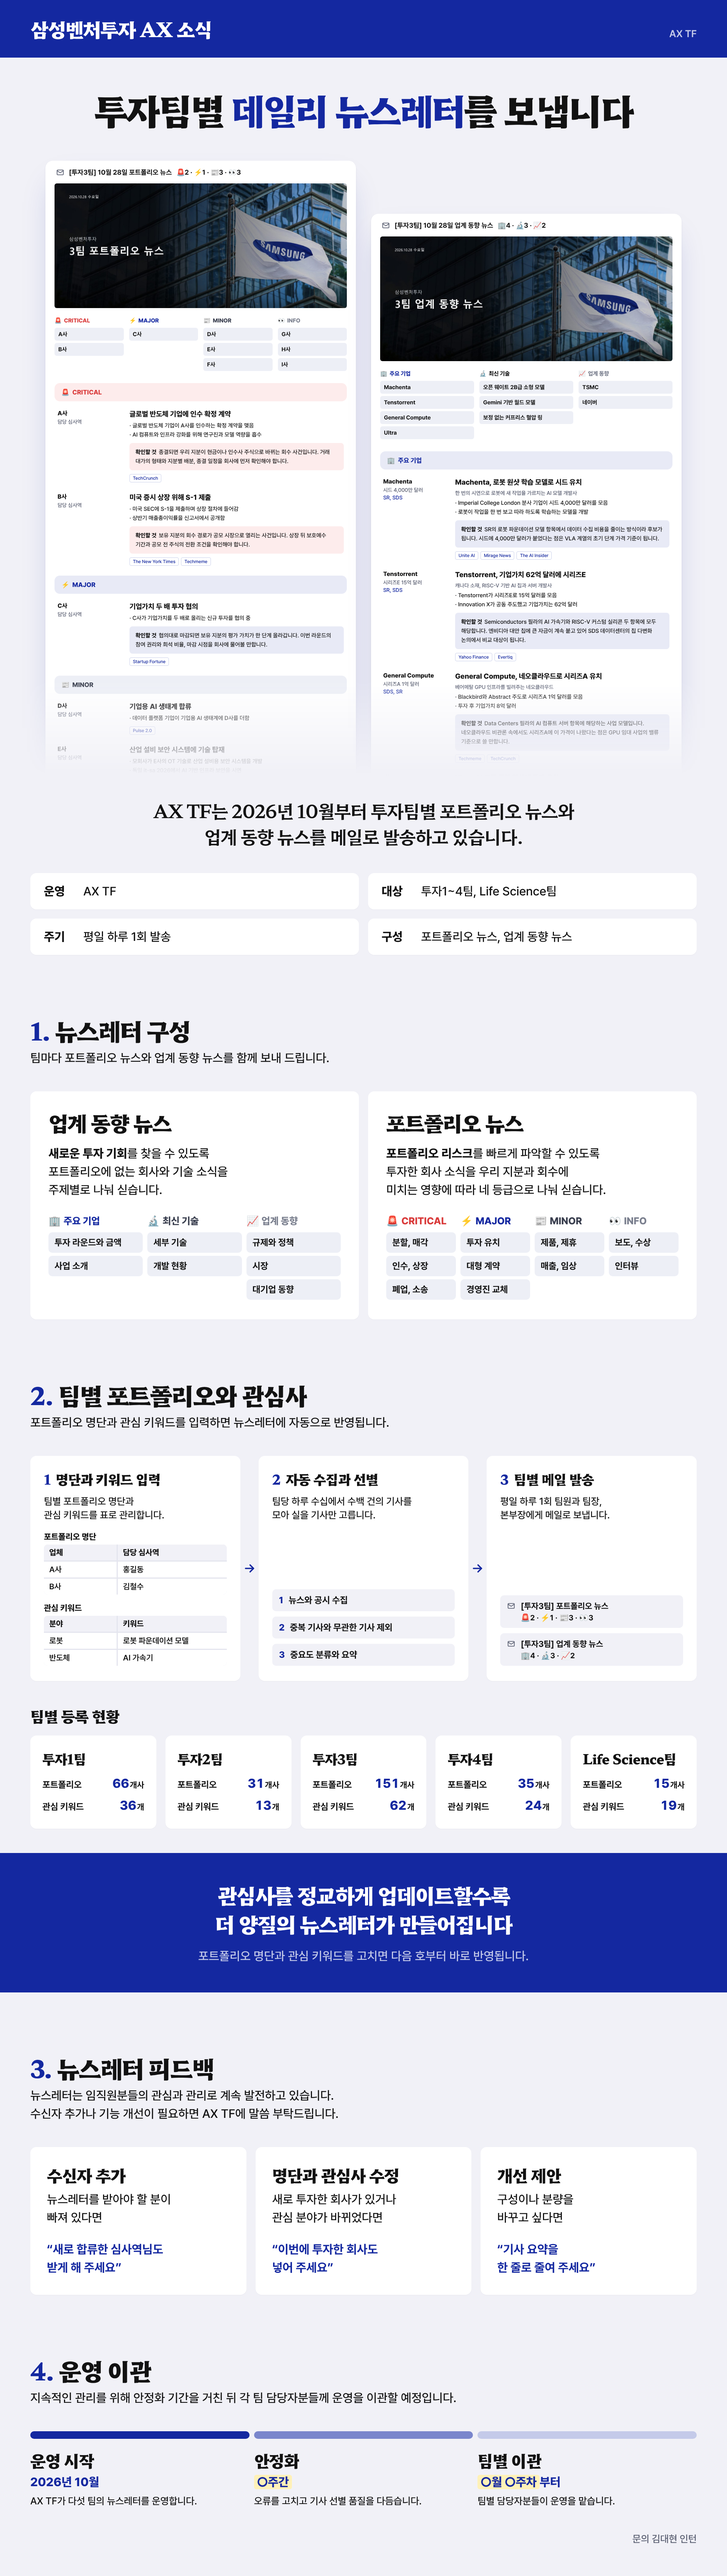
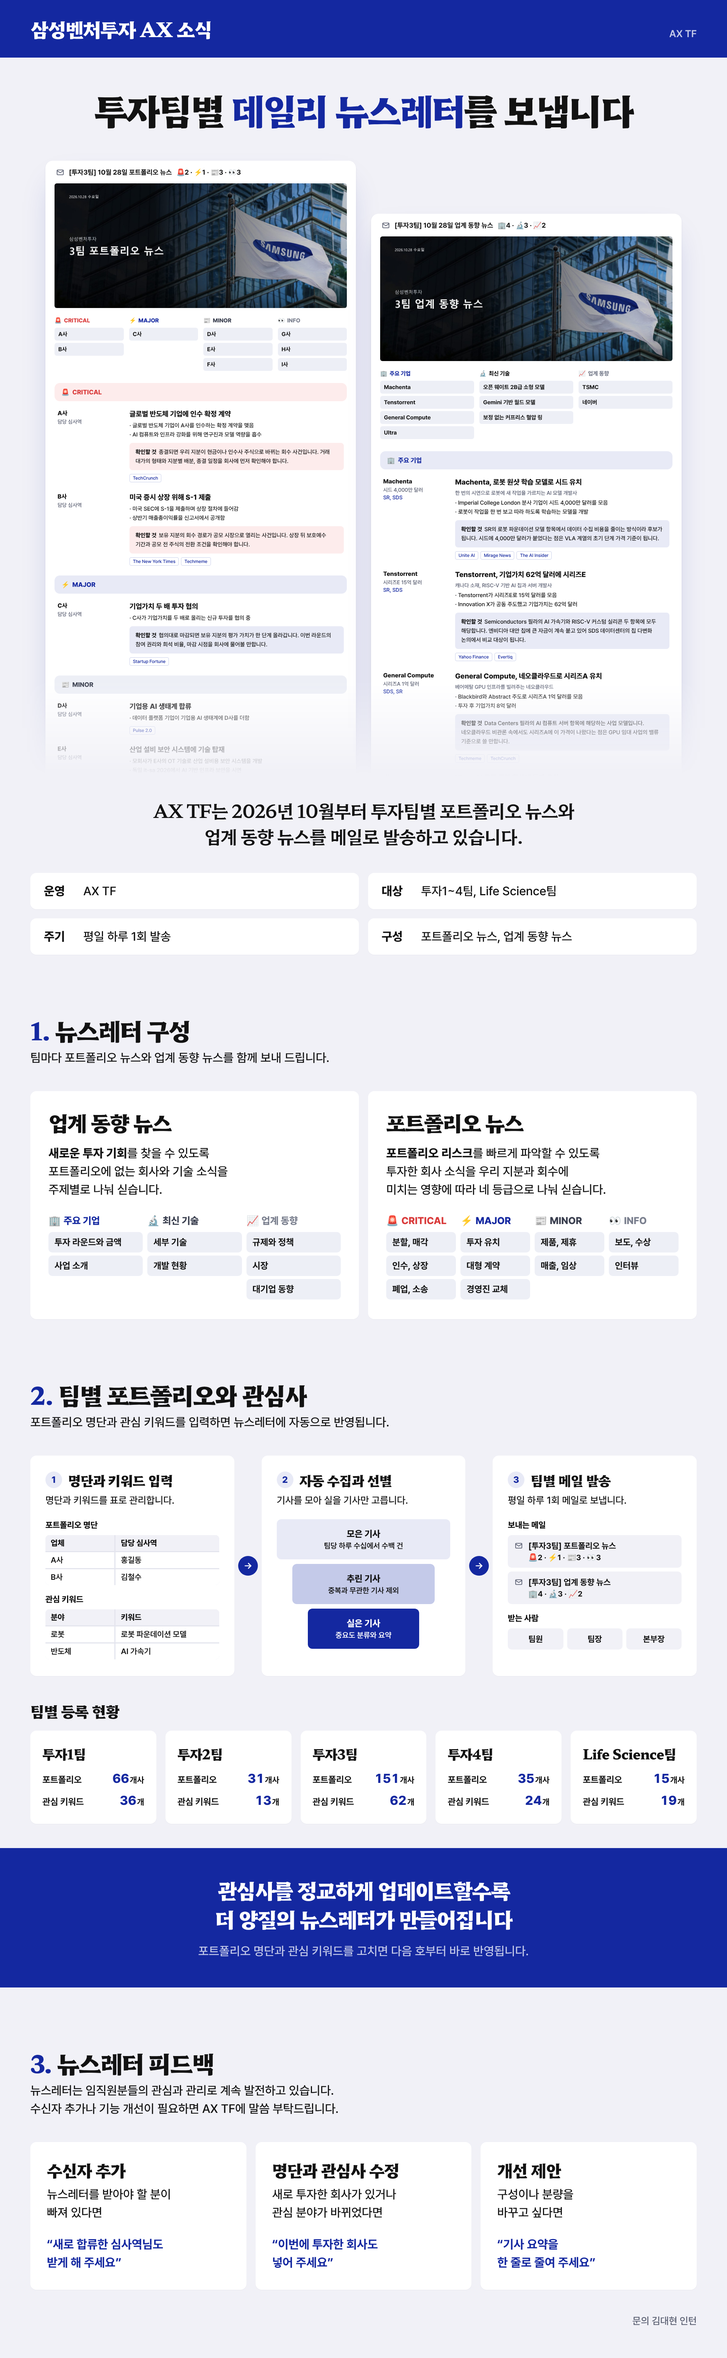
newsletter-notice: 운영 이관 장을 빼고 반영 흐름 세 패널을 정리
- 4장 운영 이관을 지우고 문의처를 3장 끝으로 옮긴다
- 세 패널의 머리와 설명을 한 줄로 맞추고 그림을 같은 높이에서 시작한다
- 2단계를 모은 기사, 추린 기사, 실은 기사로 좁아지는 막대로 바꾼다
- 3단계에 보내는 메일과 받는 사람을 함께 보여 준다
- 단계 사이 화살표를 원형 표시로 바꾼다

Claude-Session: https://claude.ai/code/session_01YSjo2N4gvMJ1LtkTYgDKfT

diff --git a/ax-tf/newsletter-notice/notice.html b/ax-tf/newsletter-notice/notice.html
@@ -117,27 +117,37 @@ svg { display: block; }
 .teams .num { order: 2; font-size: 34px; line-height: 44px; font-weight: 800; color: var(--acc); font-variant-numeric: tabular-nums; letter-spacing: -.02em; white-space: nowrap; }
 .teams .num small { font-size: 22px; color: var(--ink); font-weight: 700; margin-left: 2px; letter-spacing: 0; }
 .teams .lb { order: 1; font-size: 24px; line-height: 34px; font-weight: 700; }
-/* 반영 흐름: 입력 → 자동 수집과 선별 → 발송 */
-.flow { display: grid; grid-template-columns: 1fr 48px 1fr 48px 1fr; align-items: stretch; }
-.flow .arr { display: flex; align-items: center; justify-content: center; color: var(--acc); }
-.flow .arr svg { width: 36px; height: 36px; }
-.fp { background: var(--white); border-radius: var(--r-card); box-shadow: var(--shadow); padding: 36px 36px 40px; display: flex; flex-direction: column; gap: 18px; }
-.fp .fh { display: flex; align-items: baseline; gap: 14px; font-family: var(--display); font-size: 36px; line-height: 48px; font-weight: 800; letter-spacing: -.03em; white-space: nowrap; }
-.fp .fh .no { color: var(--acc); }
-.fp p { font-size: var(--t-cap); line-height: var(--l-cap); }
-.fp .fv { margin-top: auto; display: flex; flex-direction: column; gap: 14px; }
-.fp .sc { margin-top: 6px; font-size: 22px; line-height: 30px; font-weight: 800; }
+/* 반영 흐름: 입력 → 자동 수집과 선별 → 발송
+   세 패널은 머리와 한 줄 설명을 같은 높이에 두고, 그림은 같은 높이에서 시작한다 */
+.flow { display: grid; grid-template-columns: 1fr 72px 1fr 72px 1fr; align-items: stretch; }
+.flow .arr { display: flex; align-items: center; justify-content: center; }
+.flow .arr span { width: 52px; height: 52px; border-radius: 50%; background: var(--acc); color: var(--white); display: flex; align-items: center; justify-content: center; }
+.flow .arr svg { width: 26px; height: 26px; }
+.fp { background: var(--white); border-radius: var(--r-card); box-shadow: var(--shadow); padding: 40px 40px 44px; display: flex; flex-direction: column; }
+.fp .fh { display: flex; align-items: center; gap: 16px; font-family: var(--display); font-size: 36px; line-height: 48px; font-weight: 800; letter-spacing: -.03em; white-space: nowrap; }
+.fp .fh .no { width: 44px; height: 44px; border-radius: 50%; background: var(--acc-soft); color: var(--acc); font-family: var(--font); font-size: 24px; line-height: 44px; font-weight: 800; text-align: center; flex: none; letter-spacing: 0; }
+.fp p { margin-top: 12px; font-size: var(--t-cap); line-height: var(--l-cap); }
+.fp .fv { margin-top: 32px; display: flex; flex-direction: column; gap: 12px; }
+.fp .sc { font-size: 22px; line-height: 30px; font-weight: 800; }
+.fp .sheet + .sc, .fp .mm + .sc { margin-top: 10px; }
 /* 작은 표: 칸 사이 틈으로 바탕색이 보여 칸이 나뉜다 */
-.sheet { display: grid; grid-template-columns: 1fr 1.5fr; gap: 3px; background: var(--paper-2); border-radius: 10px; overflow: hidden; margin-top: -8px; }
+.sheet { display: grid; grid-template-columns: 1fr 1.5fr; gap: 3px; background: var(--paper-2); border-radius: 10px; overflow: hidden; }
 .sheet span { background: var(--white); padding: 6px 14px; font-size: 21px; line-height: 30px; font-weight: 600; white-space: nowrap; }
 .sheet span.hd { background: var(--paper); font-weight: 800; }
-.st2 { display: flex; flex-direction: column; gap: 10px; }
-.st2 span { display: flex; align-items: center; gap: 14px; background: var(--paper); border-radius: 10px; padding: 12px 18px; font-size: 24px; line-height: 34px; font-weight: 700; }
-.st2 span i { font-style: normal; color: var(--acc); font-weight: 800; }
+/* 선별: 아래로 갈수록 좁아지는 세 막대 */
+.fp .fun { align-items: center; }
+.fun > div { border-radius: 12px; padding: 22px 20px; text-align: center; }
+.fun b { display: block; font-size: 24px; line-height: 34px; font-weight: 800; }
+.fun span { display: block; font-size: 20px; line-height: 28px; font-weight: 600; }
+.fun .f1 { width: 100%; background: var(--acc-soft); }
+.fun .f2 { width: 82%; background: #C4CAE9; }
+.fun .f3 { width: 64%; background: var(--acc); color: var(--white); }
 .mm { display: flex; flex-direction: column; gap: 10px; }
 .mm > span { display: grid; grid-template-columns: 24px 1fr; column-gap: 12px; background: var(--paper); border-radius: 10px; padding: 12px 18px; font-size: 22px; line-height: 32px; font-weight: 700; }
 .mm svg { width: 22px; height: 22px; color: var(--mute); margin-top: 5px; }
 .mm .ct { grid-column: 2; font-size: 20px; line-height: 30px; }
+.rcv { display: grid; grid-template-columns: repeat(3, 1fr); gap: 10px; }
+.rcv span { text-align: center; background: var(--paper); border-radius: 10px; padding: 12px 0; font-size: 22px; line-height: 32px; font-weight: 700; }
 .h2 { font-family: var(--display); font-size: var(--t-h2); line-height: var(--l-h2); font-weight: 800; letter-spacing: -.03em; margin-bottom: -40px; }
 /* 관심사 안내는 섹션 여백을 넘어 포스터 폭 전체를 채우는 띠다 */
 .better { margin: 0 calc(-1 * var(--pad)); background: var(--acc); color: var(--white); padding: 72px var(--pad); text-align: center; display: flex; flex-direction: column; gap: var(--gap-sm); }
@@ -149,17 +159,6 @@ svg { display: block; }
 .fb > div { background: var(--white); border-radius: var(--r-card); box-shadow: var(--shadow); padding: 44px 44px 48px; display: flex; flex-direction: column; gap: var(--gap-xs); }
 .fb .ft { font-family: var(--display); font-size: 44px; line-height: 58px; font-weight: 800; letter-spacing: -.035em; }
 .fb .ex { margin-top: var(--gap-sm); color: var(--acc); font-weight: 700; }
-/* ---------- 4. 운영 이관: 세 단계를 색 단계로 잇는 막대 ---------- */
-.plan { display: grid; grid-template-columns: repeat(3, 1fr); gap: 12px; }
-.plan .bar { height: 20px; border-radius: 10px; margin-bottom: 28px; }
-.plan .p1 .bar { background: var(--acc); }
-.plan .p2 .bar { background: #7A86CC; }
-.plan .p3 .bar { background: #C4CAE9; }
-.plan .pn { font-family: var(--display); font-size: 44px; line-height: 56px; font-weight: 800; letter-spacing: -.035em; }
-.plan .pw { margin-top: 6px; font-size: var(--t-body); line-height: var(--l-body); font-weight: 800; color: var(--acc); }
-.plan .pd { margin-top: 8px; font-size: var(--t-cap); line-height: var(--l-cap); }
-/* 아직 정하지 않은 값. 채우기 전까지 눈에 띄게 둔다 */
-.tbd { background: #FFF1B8; border-radius: 6px; padding: 0 8px; }
 /* 맺음: 띠 없이 종이 위에 둔다. 문의처는 본문보다 낮춘다 */
 .foot { display: flex; justify-content: flex-end; font-size: var(--t-cap); line-height: var(--l-cap); color: var(--mute); }
 </style>
@@ -334,7 +333,7 @@ svg { display: block; }
     <div class="flow">
       <div class="fp">
         <div class="fh"><span class="no">1</span>명단과 키워드 입력</div>
-        <p>팀별 포트폴리오 명단과<br>관심 키워드를 표로 관리합니다.</p>
+        <p>명단과 키워드를 표로 관리합니다.</p>
         <div class="fv">
           <div class="sc">포트폴리오 명단</div>
           <div class="sheet"><span class="hd">업체</span><span class="hd">담당 심사역</span><span>A사</span><span>홍길동</span><span>B사</span><span>김철수</span></div>
@@ -342,19 +341,28 @@ svg { display: block; }
           <div class="sheet"><span class="hd">분야</span><span class="hd">키워드</span><span>로봇</span><span>로봇 파운데이션 모델</span><span>반도체</span><span>AI 가속기</span></div>
         </div>
       </div>
-      <div class="arr"><svg><use href="#i-arrow"/></svg></div>
+      <div class="arr"><span><svg><use href="#i-arrow"/></svg></span></div>
       <div class="fp">
         <div class="fh"><span class="no">2</span>자동 수집과 선별</div>
-        <p>팀당 하루 수십에서 수백 건의 기사를<br>모아 실을 기사만 고릅니다.</p>
-        <div class="fv st2"><span><i>1</i>뉴스와 공시 수집</span><span><i>2</i>중복 기사와 무관한 기사 제외</span><span><i>3</i>중요도 분류와 요약</span></div>
+        <p>기사를 모아 실을 기사만 고릅니다.</p>
+        <div class="fv fun">
+          <div class="f1"><b>모은 기사</b><span>팀당 하루 수십에서 수백 건</span></div>
+          <div class="f2"><b>추린 기사</b><span>중복과 무관한 기사 제외</span></div>
+          <div class="f3"><b>실은 기사</b><span>중요도 분류와 요약</span></div>
+        </div>
       </div>
-      <div class="arr"><svg><use href="#i-arrow"/></svg></div>
+      <div class="arr"><span><svg><use href="#i-arrow"/></svg></span></div>
       <div class="fp">
         <div class="fh"><span class="no">3</span>팀별 메일 발송</div>
-        <p>평일 하루 1회 팀원과 팀장,<br>본부장에게 메일로 보냅니다.</p>
-        <div class="fv mm">
-          <span><svg><use href="#i-mail"/></svg>[투자3팀] 포트폴리오 뉴스<span class="ct"><span class="em">🚨</span>2 · <span class="em">⚡</span>1 · <span class="em">📰</span>3 · <span class="em">👀</span>3</span></span>
-          <span><svg><use href="#i-mail"/></svg>[투자3팀] 업계 동향 뉴스<span class="ct"><span class="em">🏢</span>4 · <span class="em">🔬</span>3 · <span class="em">📈</span>2</span></span>
+        <p>평일 하루 1회 메일로 보냅니다.</p>
+        <div class="fv">
+          <div class="sc">보내는 메일</div>
+          <div class="mm">
+            <span><svg><use href="#i-mail"/></svg>[투자3팀] 포트폴리오 뉴스<span class="ct"><span class="em">🚨</span>2 · <span class="em">⚡</span>1 · <span class="em">📰</span>3 · <span class="em">👀</span>3</span></span>
+            <span><svg><use href="#i-mail"/></svg>[투자3팀] 업계 동향 뉴스<span class="ct"><span class="em">🏢</span>4 · <span class="em">🔬</span>3 · <span class="em">📈</span>2</span></span>
+          </div>
+          <div class="sc">받는 사람</div>
+          <div class="rcv"><span>팀원</span><span>팀장</span><span>본부장</span></div>
         </div>
       </div>
     </div>
@@ -383,21 +391,9 @@ svg { display: block; }
       <div><div class="ft">명단과 관심사 수정</div><p>새로 투자한 회사가 있거나<br>관심 분야가 바뀌었다면</p><p class="ex">“이번에 투자한 회사도<br>넣어 주세요”</p></div>
       <div><div class="ft">개선 제안</div><p>구성이나 분량을<br>바꾸고 싶다면</p><p class="ex">“기사 요약을<br>한 줄로 줄여 주세요”</p></div>
     </div>
-  </section>
-
-  <!-- 4. 운영 이관 -->
-  <section class="s">
-    <div class="head">
-      <div class="h"><span class="no">4.</span> 운영 이관</div>
-      <div class="lead">지속적인 관리를 위해 안정화 기간을 거친 뒤 각 팀 담당자분들께 운영을 이관할 예정입니다.</div>
-    </div>
-    <div class="plan">
-      <div class="p1"><div class="bar"></div><div class="pn">운영 시작</div><div class="pw">2026년 10월</div><div class="pd">AX TF가 다섯 팀의 뉴스레터를 운영합니다.</div></div>
-      <div class="p2"><div class="bar"></div><div class="pn">안정화</div><div class="pw"><span class="tbd">○주간</span></div><div class="pd">오류를 고치고 기사 선별 품질을 다듬습니다.</div></div>
-      <div class="p3"><div class="bar"></div><div class="pn">팀별 이관</div><div class="pw"><span class="tbd">○월 ○주차</span>부터</div><div class="pd">팀별 담당자분들이 운영을 맡습니다.</div></div>
-    </div>
     <div class="foot">문의 김대현 인턴</div>
   </section>
+
 
 </div>
 </body>
